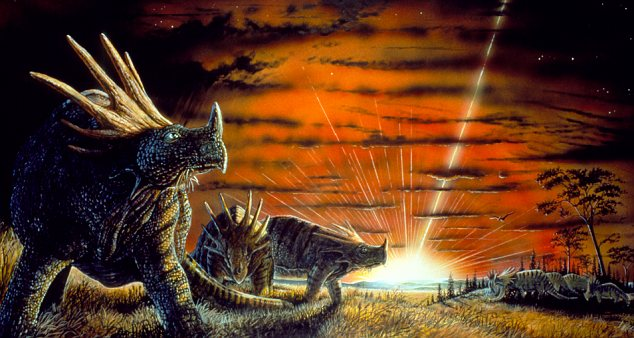
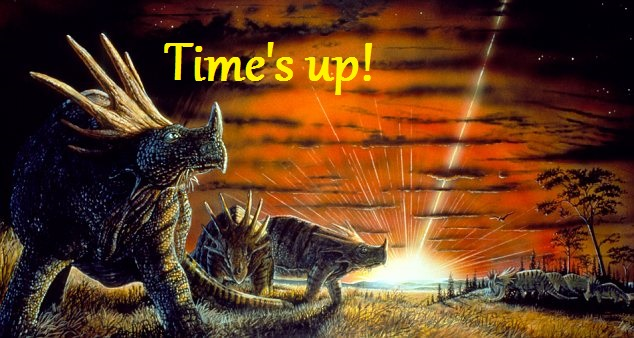
functional except restart

Changed region(s): [[0.2397, 0.1183, 0.5994, 0.2959]]

diff --git a/assets/javascript/app.js b/assets/javascript/app.js
@@ -3,6 +3,8 @@ var questionIndex = 0;
 var answersCorrect = 0;
 var answersWrong = 0;
 var answersTimedOut = 0;
+var timeLeft = 15;
+var timer;
 
 var questionArray = ['What dinosaur name means "fast thief?"', 'Which of the following dinosaurs had a giraffe-like neck?', 'What is the only dinosaur lineage to have survived the mass extinction?', 'How many claws did a velociraptor have on each hand?', 'What does "dinosaur" mean?', "What are the spikes on the end of a dinosaur's tail called?", 'An adult Stegosaurus had a brain the size of a... ?', 'Where was the velociraptor first discovered?'];
 var answerArray = [['Nanotyrannus', 'Stegosaurus', 'Velociraptor', 'Pteronodon'], ['Ankylosaurus', 'Brachiosaurus', 'Allosaurus', 'Torvosaurus'], ['Snakes', 'Lizards', 'Frogs', 'Birds'], ['Four', 'Three', 'Two', 'One'], ['Terrible lizard', 'Hungry lizard', 'Killer lizard', 'Evil lizard'], ['Chevrons', 'Kothumus', 'Thagomizer', 'Spinalis capitis'], ['Small car', 'Basketball', 'Lime', 'M&M'], ['China', 'Pakistan', 'Mongolia', 'USA']];
@@ -17,21 +19,47 @@ $('.startButton').on('click', function() { //START BUTTON CLICKED
     startNextQuestion();
 });
 
+//TIMER ITERATION
+function timerTick() {
+    timeLeft--;
+    if (timeLeft==0) { //QUESTION TIMED OUT
+        answersTimedOut++;
+        $('#reactionImage').attr('src', 'assets/images/timesUp.jpg').removeClass('invisible');
+        questionIndex++; //ITERATION
+        $('#questionBar').css('display', 'none');
+        $('.answerBar').css('display', 'none');  
+        $('.correctAnswer').removeClass('correctAnswer'); //CLEAR CORRECT ANSWER MARKER
+        clearInterval(timer);
+            setTimeout (function() {
+            startNextQuestion();
+            }, 3500)
+    }
+    $('#timeLeft').text(timeLeft);
+}
+
 //NEXT QUESTION REQUEST
 function startNextQuestion() {
     if (questionIndex === 8) { //GAME OVER MAN
+        console.log('triggered');
+        $('#reactionImage').addClass('invisible');
+        $('.timeBar').addClass('invisible');
         $('#firstAnswer, #secondAnswer, #thirdAnswer').removeClass('btn btn-warning');
-        $('#questionBar').text("All done! Here's how you did:")
+        $('#questionBar').css('display','block').text("All done! Here's how you did:");
+        $('.answerBar').css('display','inline-block');
         $('#firstAnswer').text(`Correct answers: ${answersCorrect}`);
         $('#secondAnswer').text(`Incorrect answers: ${answersWrong}`);
         $('#thirdAnswer').text(`Answers timed out: ${answersTimedOut}`);
         $('#fourthAnswer').text('Play again!');
         $('.answerBar').off('click');
         $('#fourthAnswer').on('click', function() {
-            //RESET GAME
+            //RESET GAME BUTTON GOES HERE
         })
     } else { //QUESTION & ANSWERS SETUP
-        $('#questionBar').css('display', 'inline-block');
+        $('.timeBar').removeClass('invisible');
+        timeLeft = 15;
+        $('#timeLeft').text(timeLeft);
+        timer = setInterval(timerTick, 1000);
+        $('#questionBar').css('display', 'block');
         $('#reactionImage').addClass('invisible');
         $('.answerBar').css('display', 'inline-block');
         $('#questionBar').text(questionArray[questionIndex]);
@@ -66,22 +94,21 @@ function startNextQuestion() {
                 break;
         };
     };
-    questionIndex++; //ITERATION
 };
 
 $('.answerBar').on('click', function() {
     if ($(this).attr('class') === 'answerBar btn btn-warning correctAnswer') { //CORRECT ANSWER CLICKED
         answersCorrect++;
-        $('#questionBar').css('display', 'none');
-        $('.answerBar').css('display', 'none');
         $('#reactionImage').attr('src', 'assets/images/correctImg.jpg').removeClass('invisible');
     } else { //WRONG ANSWER CLICKED
         answersWrong++;
-        $('#questionBar').css('display', 'none');
-        $('.answerBar').css('display', 'none');        
         $('#reactionImage').attr('src', 'assets/images/incorrectImg.jpg').removeClass('invisible');
     }
+    questionIndex++; //ITERATION
+    $('#questionBar').css('display', 'none');
+    $('.answerBar').css('display', 'none');  
     $('.correctAnswer').removeClass('correctAnswer'); //CLEAR CORRECT ANSWER MARKER
+    clearInterval(timer);
     setTimeout (function() {
         startNextQuestion();
     }, 2000)

diff --git a/index.html b/index.html
@@ -16,7 +16,7 @@
         <div class="titleBar">Triassic Trivia</div>
 
         <div class="quizSection">
-            <div class="timeBar invisible">Time Remaining: <span id="timeLeft"></span></div> <!-- SHOW A METEOR APPROACHING EARTH -->
+            <div class="timeBar invisible">Time Remaining: <span id="timeLeft"></span> seconds</div> <!-- SHOW A METEOR APPROACHING EARTH -->
     
             <div id="questionBar"></div>
     

diff --git a/assets/css/style.css b/assets/css/style.css
@@ -15,6 +15,11 @@ body {
     font-size: 48px;
 }
 
+.timeBar {
+    font-size: 24px;
+    color: darkred;
+}
+
 .quizSection {
     font-size: 36px;
 }
@@ -27,4 +32,9 @@ body {
 
 #firstAnswer {
     margin-top: 5px;
+}
+
+.questionBar {
+    display: block;
+    margin-bottom: 10px;
 }
